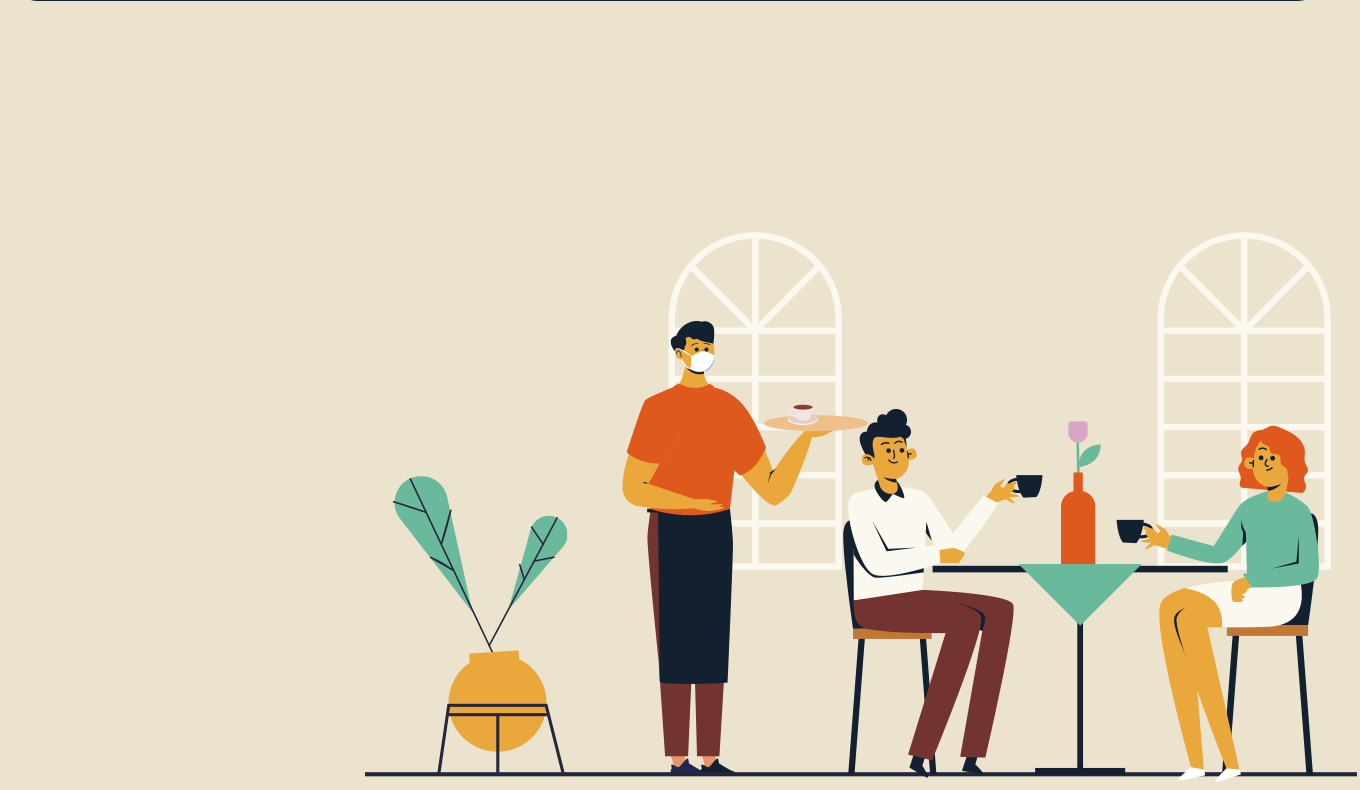
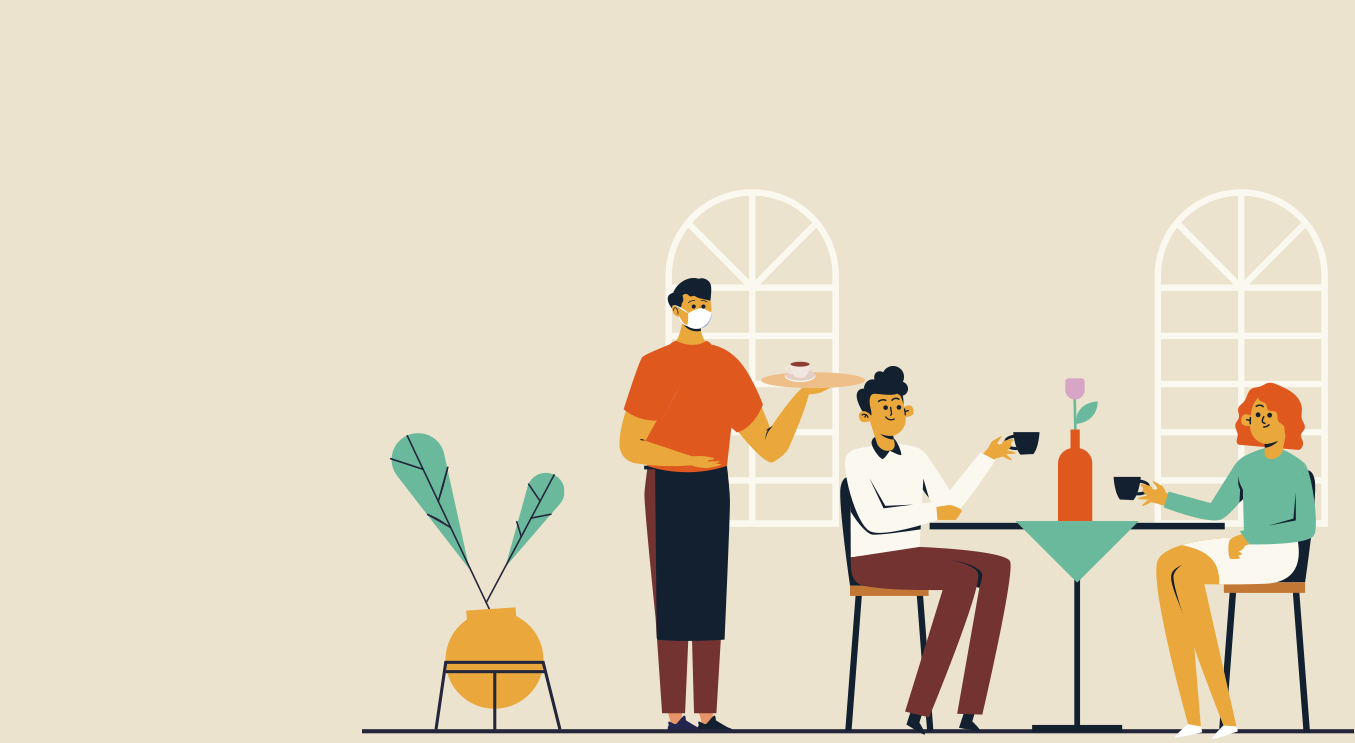
Add files via upload

diff --git a/css/style.css b/css/style.css
@@ -21,7 +21,7 @@ p{
     margin: 0;
     font-family: "Montserrat", sans-serif;
 }
-span{
+span, label{
     font-family: "Montserrat", sans-serif;
 }
 a{
@@ -91,6 +91,7 @@ nav ul li a{
     line-height: 19px;
     color: #fff;
     padding: 0 35px;
+    font-weight: 700;
 }
 .sing-up{
     display: table-cell;
@@ -102,9 +103,10 @@ nav ul li a{
     font-size: 17px;
     line-height: 19px;
     color: #6bb99c;
+    font-weight: 700;
 }
 .sing-up a:hover{
-    color: #df581e;
+    color: #ebe3cd;
 }
 nav ul li a:hover{
     color: #df581e;
@@ -147,7 +149,6 @@ nav#menu{
 /*--------banner-section-start--*/
 .banner{
     padding-top: 100px;
-    padding-bottom: 100px;
 
 }
 .banner .row{
@@ -169,6 +170,7 @@ nav#menu{
     color: #12202f;
     padding-bottom: 30px;
     max-width: 550px;
+    font-weight: 900;
 
 }
 .banner-content span{
@@ -216,8 +218,75 @@ nav#menu{
 
 
 /*--------middle-1-section-end--*/
+.middle-1-content{
+    padding-bottom: 40px;
+}
+.middle-1-content span{
+    font-size: 21px;
+    line-height: 23px;
+    color: #12202f;
+    font-weight: 700;
 
-
+}
+.input-box {
+    display: table-cell;
+    vertical-align: middle;
+}
+form {
+    background: #faf8ef;
+    border-radius: 30px;
+    padding: 40px;
+}
+label{
+    font-size: 21px;
+    line-height: 23px;
+    color: #12202f;
+    display: inline-block;
+    padding-bottom: 10px;
+    font-weight: 700;
+}
+input[type="text"] {
+    width: 250px;
+    height: 90px;
+     border-radius: 20px;
+    background: #ebe3cd;
+    font-size: 21px;
+    line-height: 23px;
+    color: #12202f;
+    padding-left: 40px;
+}
+input[type="email"] {
+    width: 333px;
+    height: 90px;
+    border-radius: 20px;
+    background: #ebe3cd;
+    font-size: 21px;
+    line-height: 23px;
+    color: #12202f;
+    padding-left: 40px;
+}
+input::placeholder{
+    font-size: 21px;
+    line-height: 23px;
+    color: #12202f;
+}
+input[type="submit"] {
+    width: 250px;
+    height: 90px;
+    font-size: 21px;
+    line-height: 23px;
+    color: #ebe3cd;
+    background: #6bb99c;
+    border-radius: 20px;
+    border: none;
+}
+.input-box:last-child{
+    padding-top: 10px;
+}
+.input-box input[type="submit"]:hover{
+    background: #df581e;
+    color: #fff;
+}
 /*--------middle-2-section-start--*/
 .middle-2{
     padding-top: 100px;
@@ -298,12 +367,14 @@ nav#menu{
     line-height: 30px;
     color: #6bb99c;
     padding-bottom: 10px;
+    font-weight: 700;
 }
 .max-content-3 h2{
     font-size: 50px;
     line-height: 52px;
     color: #12202f;
     padding-bottom: 10px;
+    font-weight: 900;
 }
 .max-content-3 a{
     padding: 15px 20px;
@@ -312,6 +383,7 @@ nav#menu{
     color: #ebe3cd;
     background: #6bb99c;
     border-radius: 30px;
+    font-weight: 700;
 }
 .max-content-3 a:hover{
     background: #df581e;
@@ -509,6 +581,7 @@ nav#menu{
     font-size: 50px;
     line-height: 52px;
     color: #12202f;
+    font-weight: 900;
 }
 .box-7{
     float: left;
@@ -718,13 +791,16 @@ textarea::placeholder{
     line-height: 27px;
     font-weight: 700;
     color: #404040;
+    vertical-align: middle;
     display: inline-block;
 }
 .icon-footar img{
     display: inline-block;
     padding: 0 25px;
 }
-
+.footer-col a:hover,.icon-footar a:hover{
+    color: #ebe3cd;
+}
 /*--------footer-section-end-*/
 
 
@@ -751,6 +827,44 @@ textarea::placeholder{
 .mrg-7 {
     margin: 0 -25px;
 }
+.input-box input[type="text"] {
+    width: 200px;
+    height: 70px;
+    border-radius: 20px;
+    background: #ebe3cd;
+    font-size: 15px;
+    line-height: 17px;
+    color: #12202f;
+    padding-left: 20px;
+}
+.input-box input[type="email"] {
+    width: 250px;
+    height: 70px;
+    border-radius: 20px;
+    background: #ebe3cd;
+    font-size: 15px;
+    line-height: 17px;
+    color: #12202f;
+    padding-left: 20px;
+}
+.input-box input[type="submit"] {
+    width: 200px;
+    height: 70px;
+    font-size: 15px;
+    line-height: 17px;
+    color: #ebe3cd;
+    background: #6bb99c;
+    border-radius: 20px;
+    border: none;
+}
+.input-box input::placeholder{
+    font-size: 15px;
+    line-height: 17px;
+}
+
+
+
+
 
 
 
@@ -873,7 +987,50 @@ textarea {
 .middle-8-content input[type="submit"] {
     height: 50px;
 }
-    
+.input-box input[type="text"] {
+    width: 150px;
+    height: 70px;
+    border-radius: 20px;
+    background: #ebe3cd;
+    font-size: 15px;
+    line-height: 17px;
+    color: #12202f;
+    padding-left: 20px;
+}
+.input-box input[type="email"] {
+    width: 200px;
+    height: 70px;
+    border-radius: 20px;
+    background: #ebe3cd;
+    font-size: 15px;
+    line-height: 17px;
+    color: #12202f;
+    padding-left: 20px;
+}
+.input-box input[type="submit"] {
+    width: 150px;
+    height: 70px;
+    font-size: 15px;
+    line-height: 17px;
+    color: #ebe3cd;
+    background: #6bb99c;
+    border-radius: 20px;
+    border: none;
+}
+
+
+
+
+
+.footer-row {
+    width: 100%;
+    text-align: center;
+}
+
+.footer-right {
+    width: 100%;
+    text-align: center;
+}
 }
 @media(max-width: 767px){
     nav{
@@ -980,7 +1137,9 @@ textarea {
 .box-7:first-child{
     padding-top: 0;
 }
-
+.bg-7-1{
+    max-width: none;
+}
 .middle-8 .row{
     height: auto;
 }
@@ -995,10 +1154,41 @@ textarea {
 }
 .footer-right input {
     width: 100%;
-    height: 60px;
+    height: 50px;
 }
 .icon-footar {
     padding-top: 30px;
+}
+
+.input-box {
+    display: block;
+    padding-bottom: 20px;
+}
+.input-box input[type="text"]{
+    width: 100%;
+}
+.input-box input[type="email"]{
+    width: 100%;
+}
+.input-box input[type="submit"]{
+    width: 100%;
+}
+
+
+.banner .row{
+    background: none;
+    width: auto;
+    height: auto;
+}
+.banner .table{
+    display: flex;
+    flex-direction: column;
+}
+.banner-content {
+    order: 2;
+}
+.banner-image {
+    display: block;
 }
 
 }
@@ -1074,6 +1264,14 @@ textarea {
 .middle-8-content input[type="submit"] {
     width: 170px;
 }
+.icon-footar img{
+    width: 50px;
+}
 
 
+
+
+form {
+    padding: 20px;
+}
 }

diff --git a/index.html b/index.html
@@ -72,28 +72,36 @@
 
 
 <!--------middle-1-section-start-->
-<!-- <section class="container middle-1">
+<section class="container middle-1">
 	<div class="row">
 		<div class="middle-1-content">
 			<span>Book a Table</span>
 			<img src="images/arrow-right.png">
 		</div>
+		<div class="table">
 		<form>
-			<label>Date</label>
-			<input type="email" name="" placeholder="01/01/2022">
-			<label>Date</label>
-		    <input type="email" name="" placeholder="06:30 pm">
-		     <label>Date</label>
+			<div class="input-box">
+			<label>Date <img src="images/arrow-doun.png"> </label>
+			<input type="text" name="" placeholder="01/01/2022">
+		</div>
+			<div class="input-box">
+			<label>Time <img src="images/arrow-doun.png"> </label>
+		    <input type="text" name="" placeholder="06:30 pm">
+		</div>
+			<div class="input-box">
+		     <label>Mail <img src="images/arrow-doun.png"> </label>
 		    <input type="email" name="" placeholder="andrea@gmail.com">
-
-		    <a href="#" title="Cheek Aviability">Cheek Aviability</a>
-
+		</div>
+			<div class="input-box">
+				<label></label>
+		    <input type="submit" name="" value="Cheek Aviability">
+		</div>
 
 		</form>
-		     
+		     </div>
 	</div>
 	</div>
-</section> -->
+</section>
 <!--------middle-1-section-end-->
 
 <!--------middle-2-section-start-->
@@ -343,10 +351,10 @@
 		<h2>Sign Up To Receive Our Newsletter</h2>
 		<input type="message" name="">
 		<div class="icon-footar">
-			<!-- <a href="#" title="Follow us">Follow us!</a> -->
-			<img src="images/f.png" alt="">
-			<img src="images/i.png" alt="">
-			<img src="images/youtub-icon.png" alt="">
+	     <a href="#" title="Follow us">Follow us!</a>
+			<a href="" title="img"> <img src="images/f.png" alt=""></a>
+			<a href="" title="img"><img src="images/i.png" alt=""></a>
+			<a href="" title="img"><img src="images/youtub-icon.png" alt=""></a>
 
 		</div>
 	</div>
